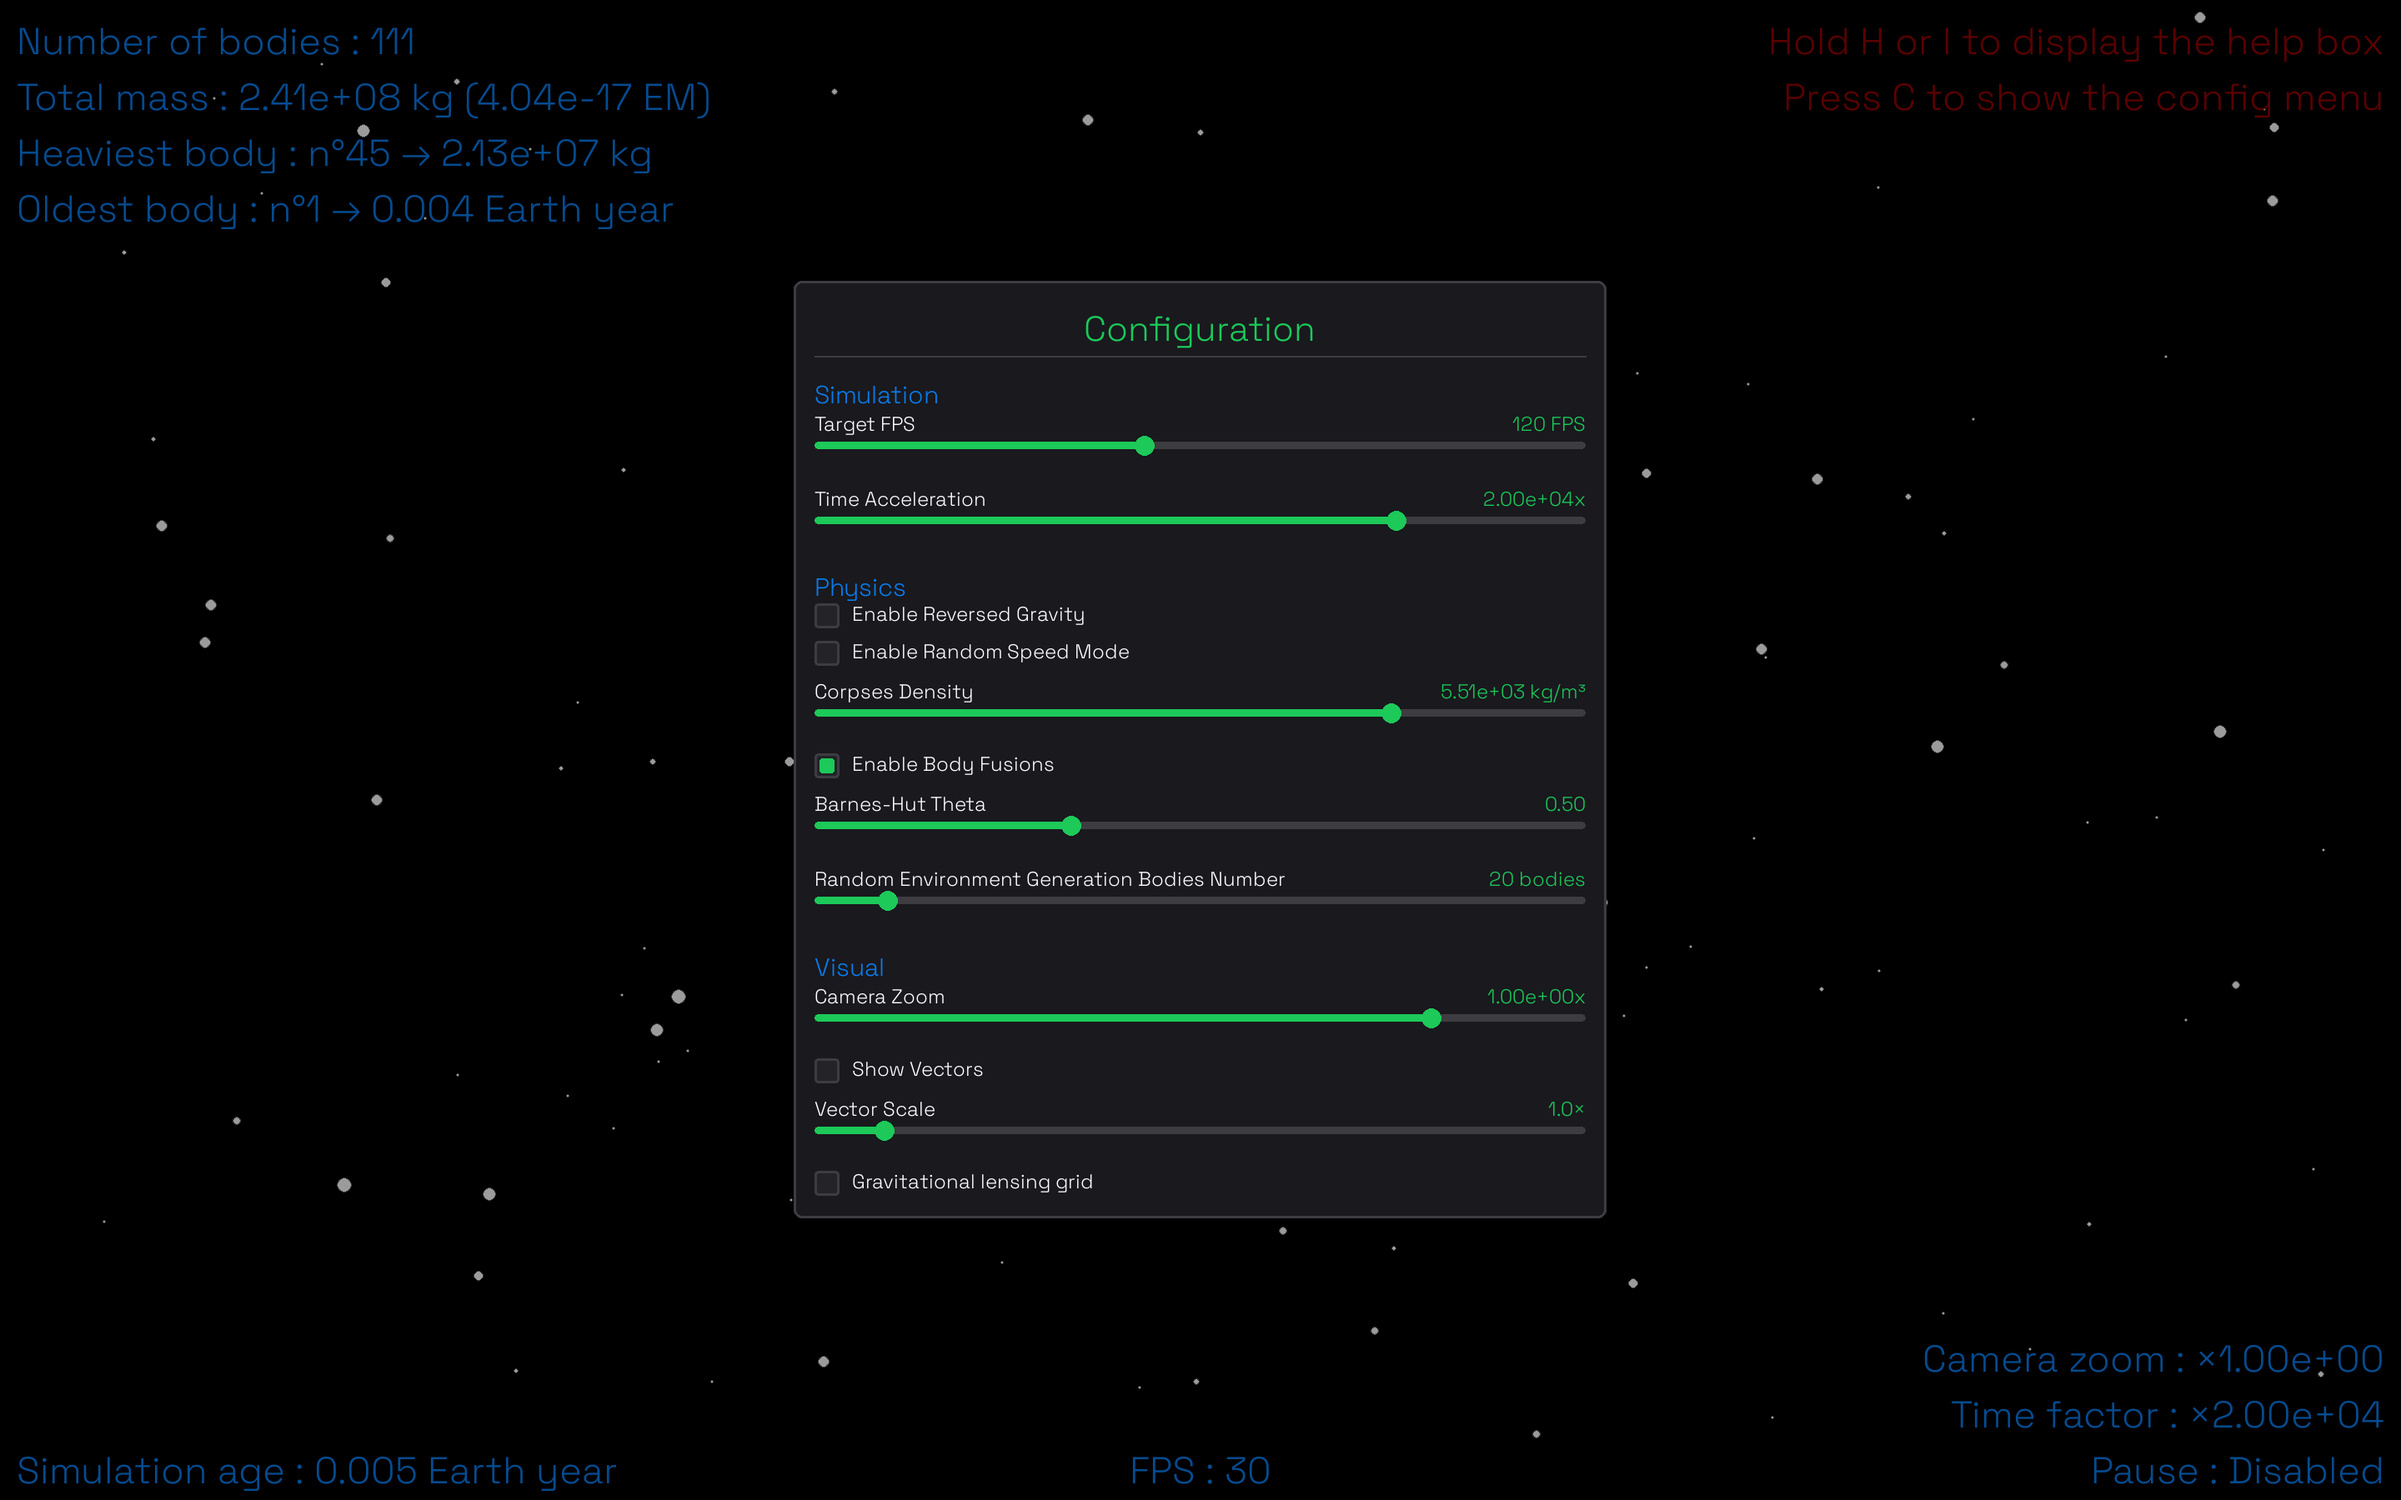
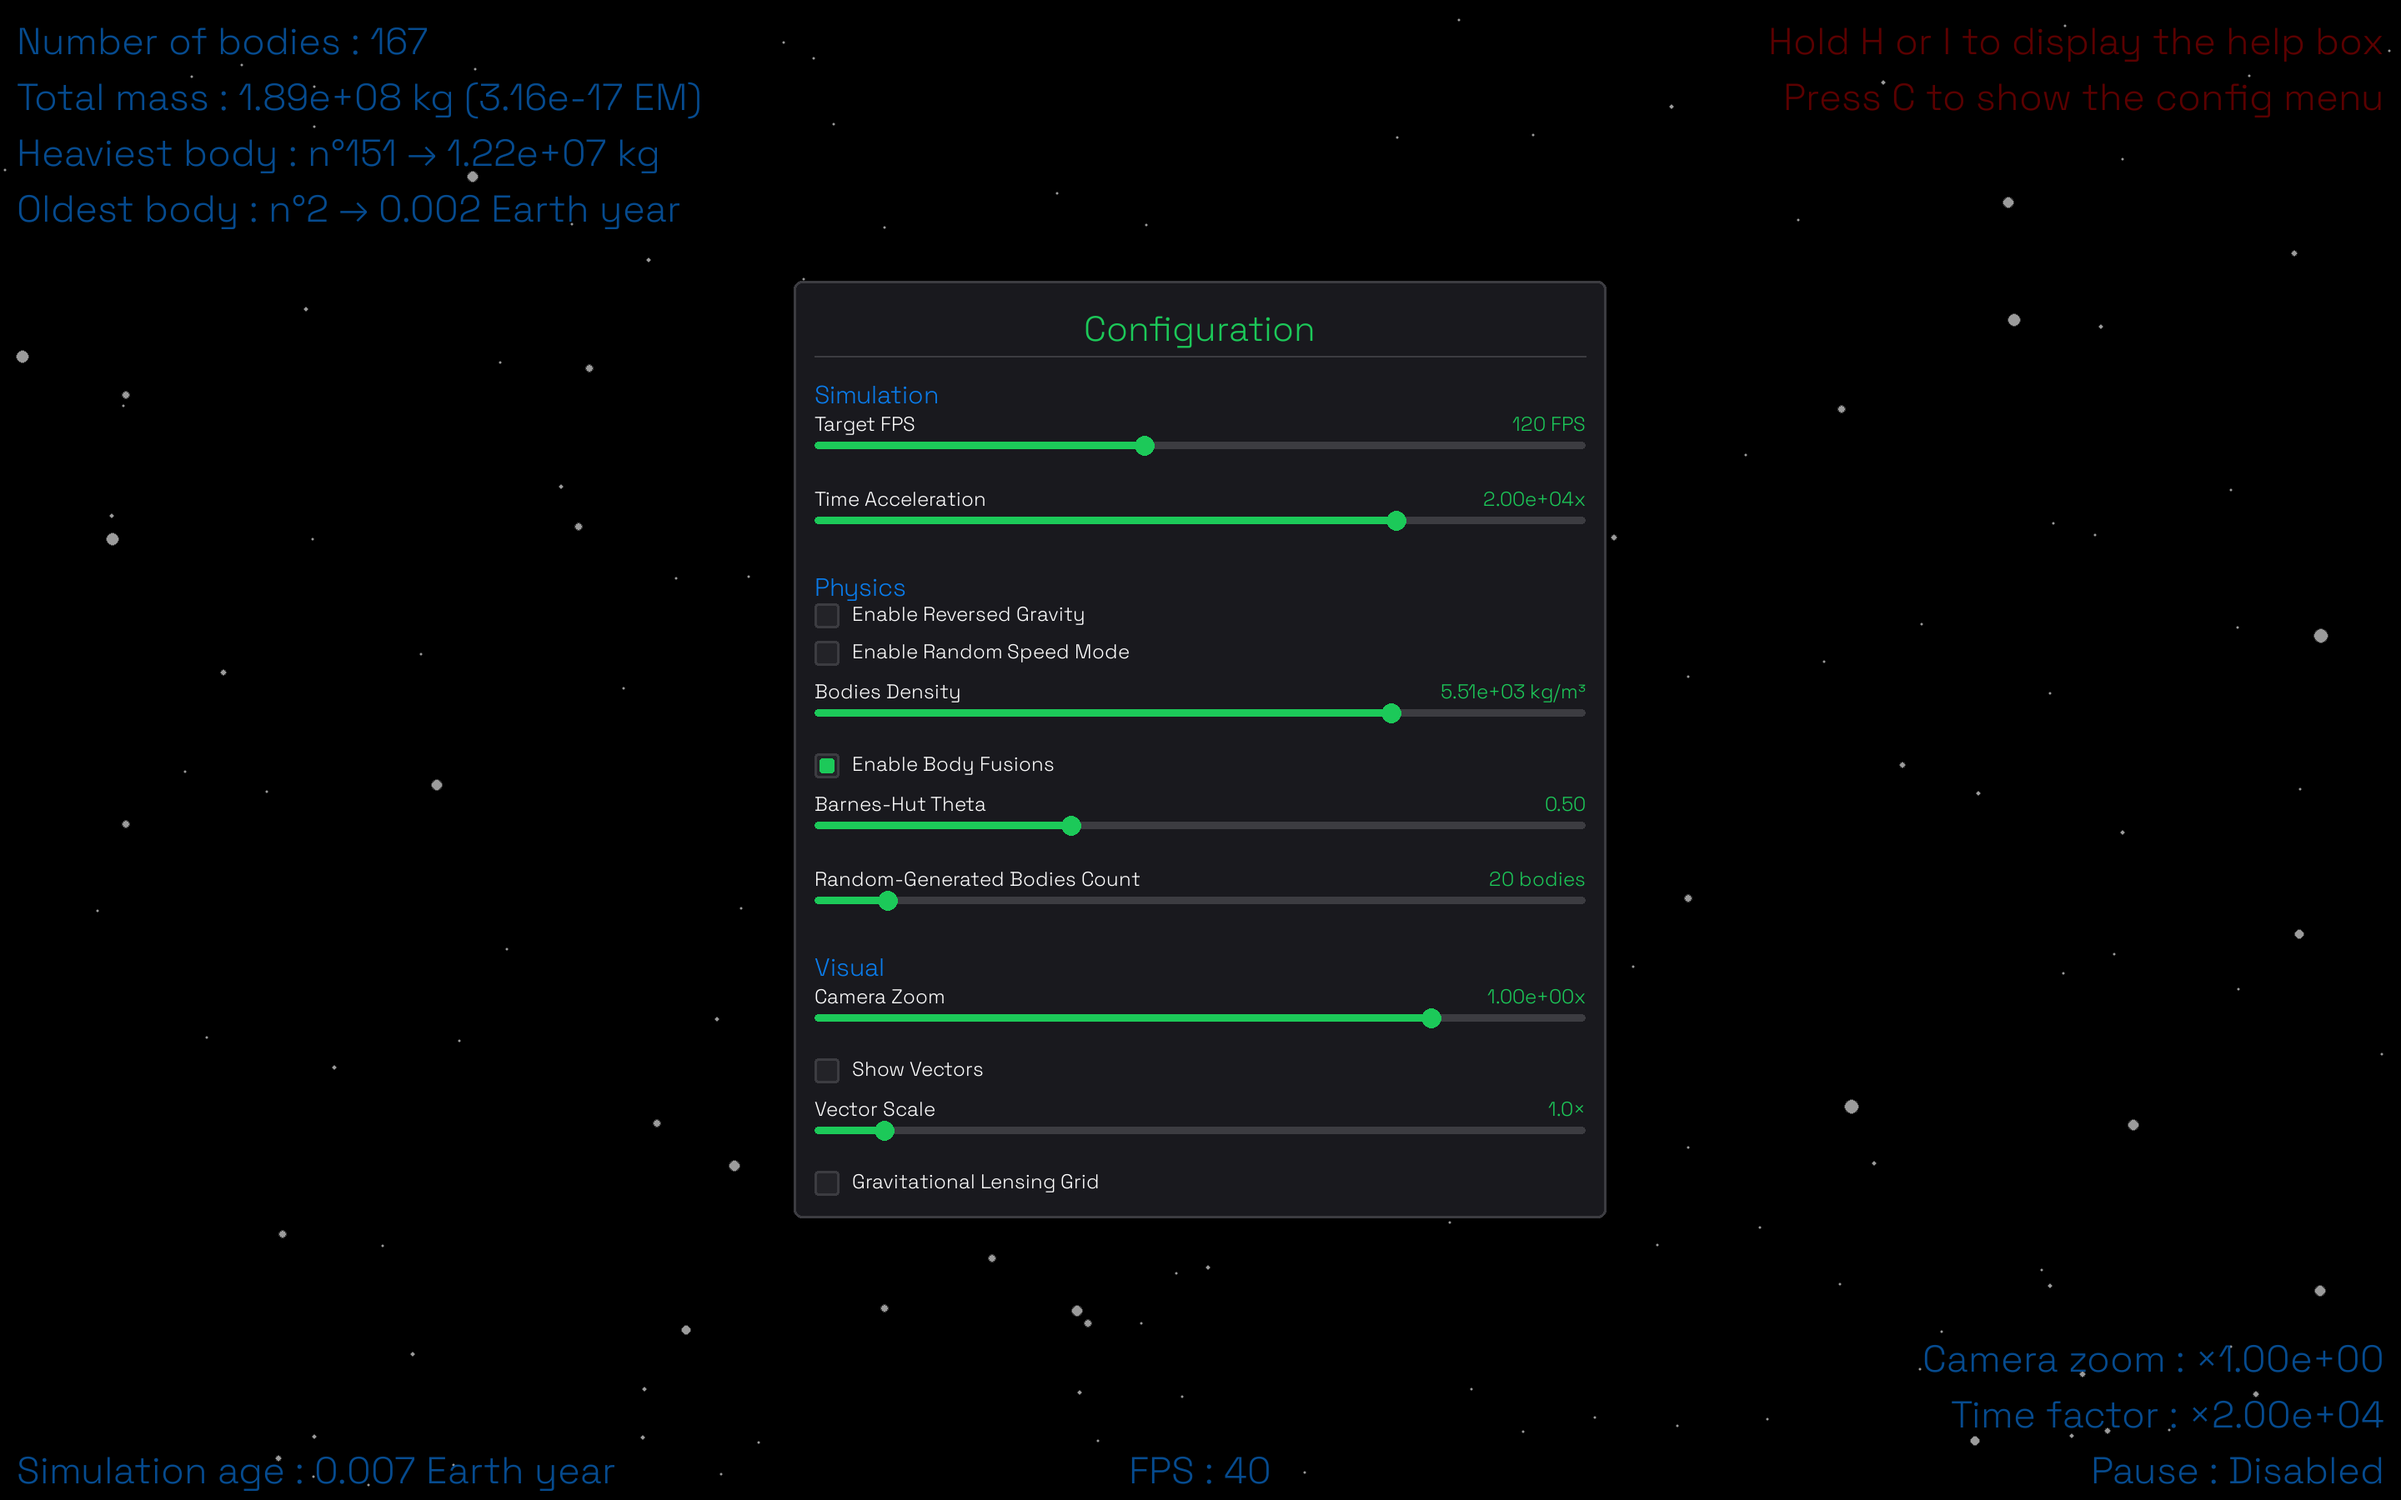
v3.11.3
Patch: Typo Update

diff --git a/src/rendering/config_panel.py b/src/rendering/config_panel.py
@@ -84,12 +84,12 @@ class ConfigPanel:
         y = self._sec(x, y, "Physics")
         y = self._checkbox(x, y, "Enable Reversed Gravity", "reversed_gravity")
         y = self._checkbox(x, y, "Enable Random Speed Mode", "random_mode")
-        y = self._slider(x, y, w, "Corpses Density", "default_density",
+        y = self._slider(x, y, w, "Bodies Density", "default_density",
                          1e0, 1e5, True, "{:.2e} kg/m³")
         y = self._checkbox(x, y, "Enable Body Fusions", "fusions")
         y = self._slider(x, y, w, "Barnes-Hut Theta", "barnes_hut_theta",
                  0.0, 1.5, False, "{:.2f}")
-        y = self._slider(x, y, w, "Random Environment Generation Bodies Number", "random_environment_number",
+        y = self._slider(x, y, w, "Random-Generated Bodies Count", "random_environment_number",
                  1, 200, False, "{:.0f} bodies")
 
         # === VISUAL ===
@@ -107,10 +107,10 @@ class ConfigPanel:
         y = self._checkbox(x, y, "Show Vectors", "vectors_printed")
         y = self._slider(x, y, w, "Vector Scale", "vector_scale",
                          0.1, 10.0, False, "{:.1f}×")
-        y = self._checkbox(x, y, "Gravitational lensing grid", "gravitational_grid_enabled")
-        y = self._slider(x, y, w, "Grid lens strength", "grid_lens_amount",
+        y = self._checkbox(x, y, "Gravitational Lensing Grid", "gravitational_grid_enabled")
+        y = self._slider(x, y, w, "Grid Lens Strength", "grid_lens_amount",
                          0.0, 10.0, False, "{:.1f}×")
-        y = self._slider(x, y, w, "Grid spacing (screen px)", "grid_target_spacing_px",
+        y = self._slider(x, y, w, "Grid Spacing (screen px)", "grid_target_spacing_px",
                          40.0, 160.0, False, "{:.0f} px")
 
         # === UI ===

diff --git a/src/core/main.py b/src/core/main.py
@@ -490,13 +490,13 @@ class Engine:
             sx, sy = self.world_to_screen(istate['x'], istate['y'])
             r = istate['radius'] * cam.scale
 
-            # Frustum cull (rayon inclus)
+            # Frustum culling (inclusive of radius)
             if sx + r < 0 or sx - r > sw or sy + r < 0 or sy - r > sh:
                 continue
             visible.append((circle, sx, sy, r))
 
-        # Le test d'occlusion a lui-même un coût : ne le déclencher
-        # que si assez de corps sont visibles pour que ça rapporte.
+        # Occlusion testing is computationally expensive; only trigger
+        # if enough bodies are visible for the cost to be worthwhile.
         if len(visible) > 50:
             visible = self._occlusion_cull(visible)
 
@@ -505,7 +505,7 @@ class Engine:
     def _occlusion_cull(self, visible):
         from collections import defaultdict
 
-        visible.sort(key=lambda v: v[3], reverse=True)  # plus grand d'abord
+        visible.sort(key=lambda v: v[3], reverse=True)  # largest radius first
         max_r = visible[0][3] if visible else 1.0
         cell_size = max(2 * max_r, 1.0)
 

diff --git a/src/core/action_manager.py b/src/core/action_manager.py
@@ -287,7 +287,7 @@ class ActionManager:
             pygame.image.save(surf, full_path)
             shown = os.path.basename(full_path)
             TempText(
-                text=f"Screenshot enregistré : {shown}",
+                text=f"Screenshot saved : {shown}",
                 duration=3.0,
                 dest=(
                     20,
